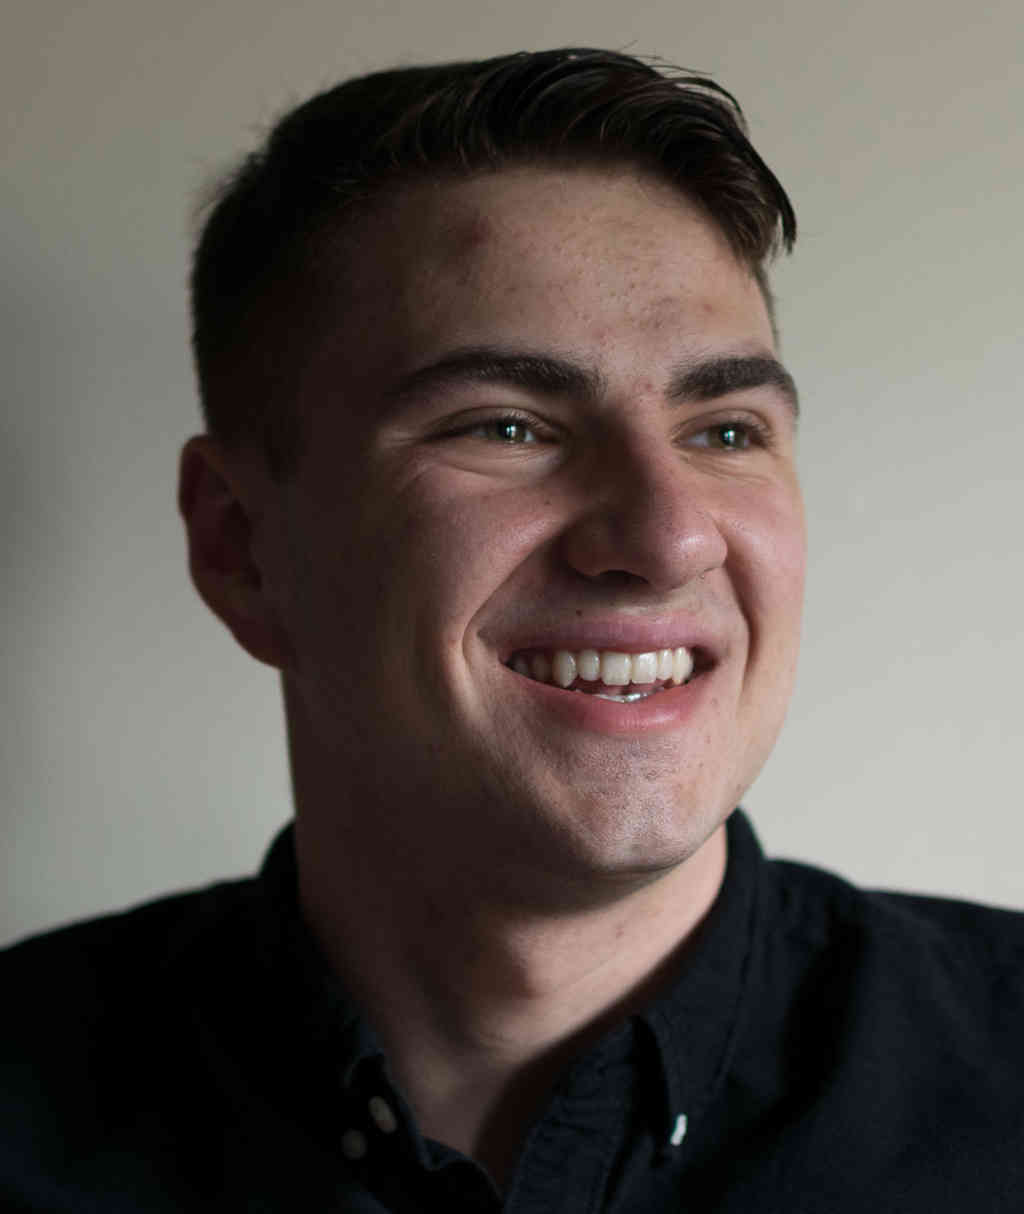
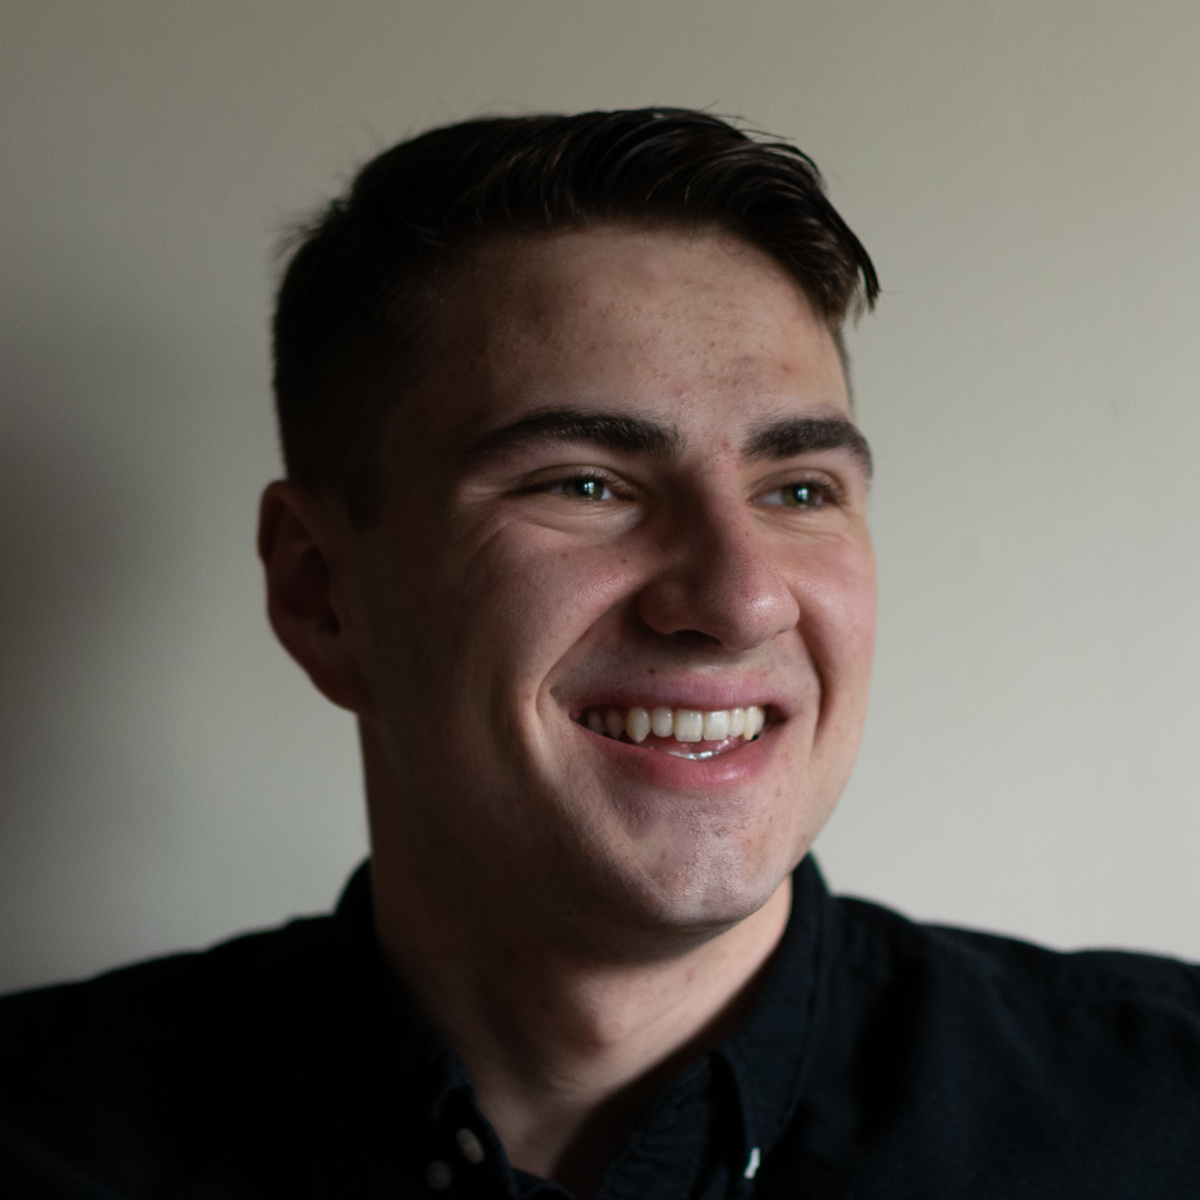
Updated headshot and education tag

diff --git a/src/public/css/index.css b/src/public/css/index.css
@@ -111,8 +111,10 @@ a {
 }
 
 .full-center > .container > .brand > img {
-  width: 30px;
-  height: 30px;
+  object-fit: cover;
+  border-radius: 50%;
+  height: 80px;
+  width: 80px;
   vertical-align: middle;
 }
 
@@ -122,6 +124,7 @@ a {
   color: var(--cyan);
   vertical-align: middle;
   animation: glowCyan 10s ease-in-out 0s infinite;
+  margin-left: 10px;
 }
 
 .full-center > .container > .info {
@@ -129,7 +132,7 @@ a {
   grid-template-columns: 30px auto;
   grid-template-rows: auto;
   row-gap: 5px;
-  margin-top: 10px;
+  margin-top: 20px;
   margin-left: 20px;
 }
 

diff --git a/src/templates/index.html b/src/templates/index.html
@@ -13,7 +13,7 @@
 <div class="full-center">
   <div class="container">
     <div class="brand">
-      <img src="/img/logo.png" alt="my logo" />
+      <img src="/img/headshot.jpg" alt="my headshot" />
       <h1>ephjos</h1>
     </div>
     <div class="info">
@@ -29,7 +29,7 @@
       </span>
 
       <span>👨🎓</span>
-      <span>Senior BS/MS Computer Science Student at Drexel University</span>
+      <span>BS/MS Computer Science Graduate from Drexel University</span>
 
       <span>❔</span>
       <span>
